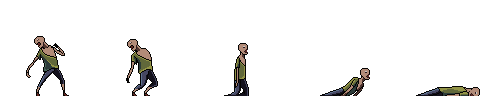
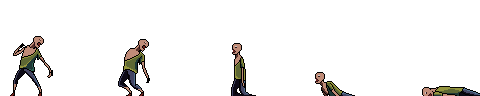
Zumbi_corredores adicionados
Nader Taha Murilo Godoy  naderat@al.insper.edu.br Murilogz@al.insper.edu.br

diff --git a/personagens.py b/personagens.py
@@ -208,81 +208,70 @@ class Zumbies(pygame.sprite.Sprite):
         janela.blit(self.image, self.image_rect)
 
 
-# class Zumbies_Corredores(pygame.sprite.Sprite):
-#     def __init__(self, image, frames, tela):
-#         super().__init__()
-#         self.carregar_frames(image, frames)
-#         self.frame_atual = 0
-#         self.tempo_ultimo_update = pygame.time.get_ticks()
-#         self.path = image
-#         self.intervalo_animacao = 100
-#         largura_frame = 112 * 5
-#         altura_frame = 128 * 5
+class Zumbies_Corredores(pygame.sprite.Sprite):
+    def __init__(self, image, frames, tela):
+        super().__init__()
+        self.carregar_frames(image, frames)
+        self.frame_atual = 0
+        self.tempo_ultimo_update = pygame.time.get_ticks()
+        self.path = image
+        self.intervalo_animacao = 100
+        largura_frame = 112 * 5
+        altura_frame = 128 * 5
 
-#         # Frame da sprite (imagem visual do personagem)
-#         self.image_rect = pygame.Rect(tela["largura"] ,
-#             tela["altura"] - 400,
-#             largura_frame,
-#             altura_frame
-#         )
+        # Frame da sprite (imagem visual do personagem)
+        self.image_rect = pygame.Rect(tela["largura"] ,
+            tela["altura"] - 20,
+            largura_frame,
+            altura_frame - 190
+        )
 
-#         # Hitbox mais precisa (centralizada na parte do corpo)
-#         hitbox_largura = 150
-#         hitbox_altura = 50
+        # Hitbox mais precisa (centralizada na parte do corpo)
+        hitbox_largura = 150
+        hitbox_altura = 300
 
-#         # Alinha o centro da hitbox com a parte inferior do personagem (os pés)
-#         self.rect = pygame.Rect(
-#             (self.image_rect.centerx - hitbox_largura // 2) ,
-#              tela["altura"] - 800,
-#             hitbox_largura,
-#             hitbox_altura 
-#         )
+        # Alinha o centro da hitbox com a parte inferior do personagem (os pés)
+        self.rect = pygame.Rect(
+            (self.image_rect.centerx - hitbox_largura // 2) ,
+             tela["altura"] - 600,
+            hitbox_largura,
+            hitbox_altura
+        )
 
-#         # self.image_rect.midbottom = self.rect.midbottom
-#         self.vidas = 2
-#         self.velocidade = 20
-#         self.estado = 'andando'
-#         self.animacao_dano = False
+        # self.image_rect.midbottom = self.rect.midbottom
+        self.vidas = 2
+        self.velocidade = 20
+        self.estado = 'andando'
+        self.animacao_dano = False
 
-#     def carregar_frames(self, image, frames):
-#         image = image.convert_alpha()
-#         altura = image.get_height()
-#         largura_total = image.get_width()
-#         largura_quadro = largura_total // frames
-#         self.frames = [image.subsurface((i * largura_quadro, 0, largura_quadro, altura)) for i in range(frames)]
-#         self.image = self.frames[0]
+    def carregar_frames(self, image, frames):
+        image = image.convert_alpha()
+        altura = image.get_height()
+        largura_total = image.get_width()
+        largura_quadro = largura_total // frames
+        self.frames = [image.subsurface((i * largura_quadro, 0, largura_quadro, altura)) for i in range(frames)]
+        self.image = self.frames[0]
         
 
-#     def trocar_animacao(self, image, frames, dano=False, novo_estado=None):
-#         self.carregar_frames(image, frames)
-#         self.frame_atual = 0
-#         self.animacao_dano = dano
-#         self.image_rect.midbottom = self.rect.midbottom
-#         self.estado = novo_estado
+    def trocar_animacao(self, image, frames):
+        self.carregar_frames(image, frames)
+        self.frame_atual = 0
+        self.image_rect.midbottom = self.rect.midbottom
 
-#     def update(self):
-#         agora = pygame.time.get_ticks()
-#         delta_time = (agora - self.tempo_ultimo_update) / 1000
-#         if agora - self.tempo_ultimo_update > self.intervalo_animacao:
-#             self.tempo_ultimo_update = agora
-#             self.frame_atual += 1
-#             if self.frame_atual >= len(self.frames):
-#                 if self.animacao_dano:
-#                     self.trocar_animacao(self.path, 10)
-#                     self.estado = 'andando'
-#                     self.animacao_dano = False
-#                 elif self.estado == "Ataque":
-#                     self.trocar_animacao(self.path, 5)
-#                     self.estado = "andando"
-#                 else:
-#                     self.frame_atual = 0
-#             self.image = self.frames[self.frame_atual]
-            
-#         if self.estado == 'andando':
-#             self.rect.x -= self.velocidade * delta_time
-#             if self.rect.x < -200:
-#                 self.kill()
-#             self.image_rect.midbottom = self.rect.midbottom  
+    def update(self):
+        agora = pygame.time.get_ticks()
+        delta_time = (agora - self.tempo_ultimo_update) / 1000
+        if agora - self.tempo_ultimo_update > self.intervalo_animacao:
+            self.tempo_ultimo_update = agora
+            self.frame_atual += 1
+            if self.frame_atual >= len(self.frames):
+                self.frame_atual = 0
+        self.image = self.frames[self.frame_atual]
+        self.rect.x -= self.velocidade * delta_time
+        if self.rect.x < -200:
+            self.kill()
+        self.image_rect.midbottom = self.rect.midbottom  
 
-#     def desenha(self, janela):
-#         janela.blit(self.image, self.image_rect)
+    def desenha(self, janela):
+        janela.blit(self.image, self.image_rect)
+        pygame.draw.rect(janela, (255, 0, 0), self.rect, 2)  # Desenha a hitbox para depuração

diff --git a/telas.py b/telas.py
@@ -1,5 +1,5 @@
 import pygame,pygame.freetype
-from personagens import Personagens, Zumbies, Tiro, Impacto
+from personagens import Personagens, Zumbies, Tiro, Impacto,Zumbies_Corredores
 from Aerea import AmeacaAerea
 from explosao import ExplosaoAerea
 from ranking import add_score, load_ranking
@@ -266,7 +266,7 @@ class TelaJogo(Tela):
         self.ameacas = pygame.sprite.Group()
         self.ultimo_spawn_ameaca = pygame.time.get_ticks()
         self.intervalo_ameaca = random.randint(1000, 3000)
-        # self.corredores = pygame.sprite.Group()
+        self.corredores = pygame.sprite.Group()
         self.recarregar_sound = pygame.mixer.Sound("assets/snd/recarregar.wav")
         # self.arma_vazia = pygame.mixer.Sound("assets/snd/sem_municao.wav")
         # self.arma_vazia.set_volume(1.0)
@@ -287,6 +287,7 @@ class TelaJogo(Tela):
             "zumbi_andar":pygame.image.load("assets/img/Zombie_1/Walk.png"),
             "zumbi_ataque":pygame.image.load("assets/img/Zombie_1/Attack.png"),
             "zumbi_andar_corredor":pygame.image.load("assets/img/ZombieMan/Walk.png"),
+            "zumbi_morte_corredor":pygame.image.load("assets/img/ZombieMan/Dead.png"),
         }
         self.assets = {
             "img_fundo": pygame.transform.scale(pygame.image.load("assets/img/Fundo.png"), (self.tela["largura"], self.tela["altura"])),
@@ -305,6 +306,7 @@ class TelaJogo(Tela):
             "pesonagem_recarregar": pygame.transform.scale(self.sprites["personagem_recarregar"],(self.sprites["personagem_recarregar"].get_width()*5,self.sprites["personagem_recarregar"].get_height()*5)),
             "zombie_walk_corredor": pygame.transform.scale(self.sprites["zumbi_andar_corredor"], (self.sprites["zumbi_andar_corredor"].get_width()*4.5, self.sprites["zumbi_andar_corredor"].get_height()*4.5)),
             "explosao_aerea": pygame.image.load("assets/img/explosao.png"),
+            "zumbi_morte_corredor": pygame.transform.scale(self.sprites["zumbi_morte_corredor"], (self.sprites["zumbi_morte_corredor"].get_width()*4.5, self.sprites["zumbi_morte_corredor"].get_height()*4.5)),
         }
         self.personagem = Personagens(self.assets['parado'], 7,self.tela)
         self.grupo_pesonagem = pygame.sprite.GroupSingle(self.personagem)
@@ -455,10 +457,10 @@ class TelaJogo(Tela):
             self.ultima_geracao = agora
             novo_zumbi = Zumbies(self.assets["zombie_walk"], 10, self.tela)
             self.zumbies.add(novo_zumbi)
-        # if agora - self.ultima_geracao_corredores > (self.intervalo_geracao + 1000):
-        #     self.ultima_geracao_corredores = agora
-        #     corredor = Zumbies_Corredores(self.assets["zombie_walk_corredor"], 8, self.tela)
-        #     self.corredores.add(corredor)
+        if agora - self.ultima_geracao_corredores > (self.intervalo_geracao + 1000):
+            self.ultima_geracao_corredores = agora
+            corredor = Zumbies_Corredores(self.assets["zombie_walk_corredor"], 8, self.tela)
+            self.corredores.add(corredor)
 
 
         agora = pygame.time.get_ticks()
@@ -468,7 +470,7 @@ class TelaJogo(Tela):
             nova_ameaca = AmeacaAerea(self.tela["largura"])
             self.ameacas.add(nova_ameaca)
 
-    
+
         colisao_zumbi_personagem = pygame.sprite.groupcollide(self.grupo_pesonagem,self.zumbies,False,False)
         for personagem, zumbie in colisao_zumbi_personagem.items():
             for zumbi in zumbie:
@@ -522,7 +524,20 @@ class TelaJogo(Tela):
                 else:
                     if zumbi.estado != 'ferido': #'assets/img/Zombie_1/Hurt_invertida.png'
                         zumbi.trocar_animacao(self.assets["zumbi_ferido"], 4, dano=True, novo_estado='ferido')
-
+        colisao_tiro_corredor = pygame.sprite.groupcollide(self.tiros, self.corredores, True, False)
+        for tiro, corredores_atingidos in colisao_tiro_corredor.items():    
+            for corredor in corredores_atingidos:
+                corredor.vidas -= 1
+                self.zumbies_atingidos += 1
+                if corredor.vidas <= 0:
+                    impacto = Impacto(corredor.image_rect.center,self.assets["zumbi_morte_corredor"],5,"zumbi")
+                    self.impactos.add(impacto) 
+                    self.corredores.remove(corredor)
+                    self.tiros.remove(tiro)
+                    self.personagem.zumbies_mortos += 1
+                # else:
+                #     if corredor.estado != 'ferido':
+                #         corredor.trocar_animacao(self.assets["zumbi_ferido"], 4, dano=True, novo_estado='ferido')
         # Atualizar as animações do personagem e verificar o término da animação de tiro
         if self.animacao_tiro:
                 if self.personagem.frame_atual == len(self.personagem.frames) - 1:  # Último quadro
@@ -546,7 +561,7 @@ class TelaJogo(Tela):
         self.tiros.update()
         self.impactos.update()
         self.ameacas.update()
-        # self.corredores.update()
+        self.corredores.update()
         
 
         # Verificar movimento horizontal
@@ -587,9 +602,9 @@ class TelaJogo(Tela):
         for zumbi in self.zumbies:
             pygame.draw.rect(janela,(0,255,0),zumbi.rect)
             zumbi.desenha(janela)
-        # for corredores in self.corredores:
-        #     pygame.draw.rect(janela,(0,255,0),corredores.rect)
-        #     corredores.desenha(janela)
+        for corredores in self.corredores:
+            # pygame.draw.rect(janela,(0,255,0),corredores.rect)
+            corredores.desenha(janela)
             
         if self.personagem in self.grupo_pesonagem:
             self.personagem.desenha(janela)
